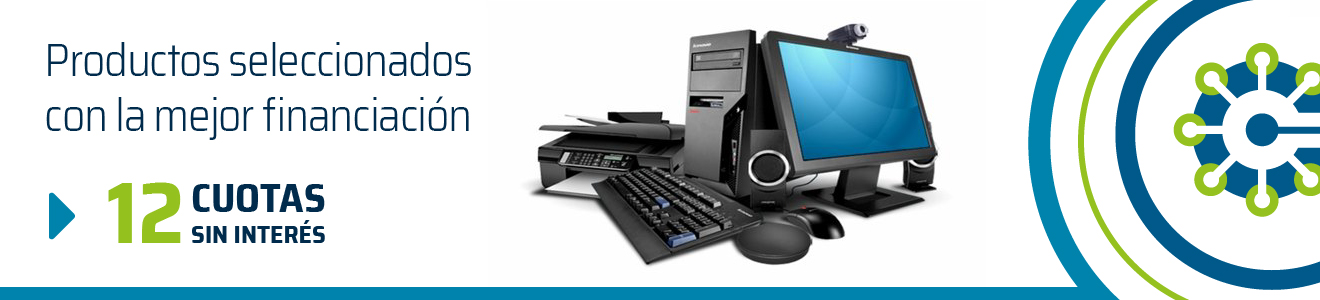
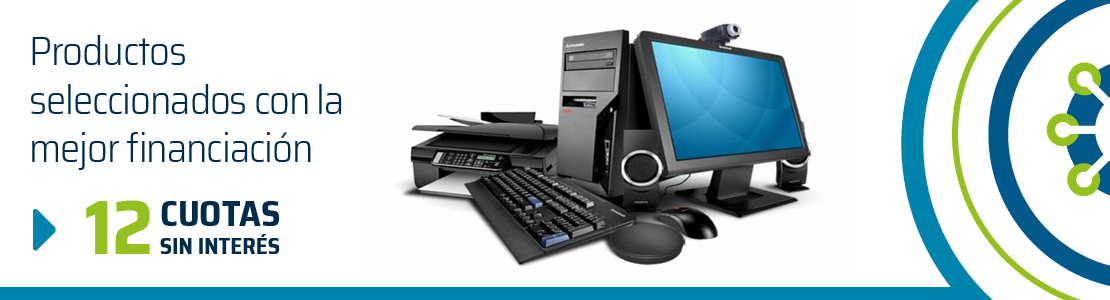
ajustes en producto e inicio

diff --git a/src/components/SeccionProducto.jsx b/src/components/SeccionProducto.jsx
@@ -30,14 +30,14 @@ export default function SeccionProducto() {
         <>
             <NavReactB />
             <div className="container my-5 ">
-                <Card className="p-3 m-auto row flex-row">
+                <div className="p-3 m-auto row flex-row">
 
                     <div className="col-5 pe-0">
                         <Card>
-                            <Card.Body className="">
-                                <Card.Title>
+                            <Card.Body className="fuente">
+                                <div className="titulo-producto-view">
                                     Estación de trabajo HP Z2 Mini G4
-                            </Card.Title>
+                            </div>
                                 <h5 className="grey-text">
                                     <del>$55000.00</del>
                                 </h5>
@@ -215,15 +215,15 @@ export default function SeccionProducto() {
                         </Swiper>
 
                         <div className="border-top">
-                            <h3 className="mt-4">
-                                Más publicaciones de RollingTech
+                            <h3 className="mt-4 titulo-infopro-view">
+                                Información del producto
                         </h3>
                             <div>
 
                             </div>
                         </div>
                     </div>
-                </Card>
+                </div>
             </div>
             <Footer />
         </>

diff --git a/src/components/SlideOfertas.jsx b/src/components/SlideOfertas.jsx
@@ -9,7 +9,7 @@ export default function SlideOfertas() {
     <Carousel fade>
   <Carousel.Item interval={2500}>
     <img
-      className="d-block w-100"
+      className="d-block img-fluid"
       src={slide1}
       alt="First slide"
     />
@@ -19,7 +19,7 @@ export default function SlideOfertas() {
   </Carousel.Item>
   <Carousel.Item interval={2500}>
     <img
-      className="d-block w-100"
+      className="d-block img-fluid"
       src={slide2}
       alt="First slide"
     />

diff --git a/src/components/NavReactB.jsx b/src/components/NavReactB.jsx
@@ -62,6 +62,8 @@ export default function NavReactB() {
       {/* Modal's */}
       <Modal className="modal-favoritos" bsPrefix="modal" size="lg" show={crear} onHide={handleClose}>
         <Modal.Body scrollable>
+          <span>No te quedés con las ganas</span>
+          <p>Los favoritos pueden ser tuyos ya!</p>
             <CardFavoritos />
             <CardFavoritos />
             <CardFavoritos />

diff --git a/src/App.css b/src/App.css
@@ -818,3 +818,20 @@
 
 }
 
+.fuente {
+  font-family: 'Saira Semi Condensed', sans-serif;
+}
+
+.titulo-producto-view {
+  font-weight: 600;
+  font-size: 1.7rem;
+  color: #002b4b;
+  
+}
+
+.titulo-infopro-view {
+  font-weight: 600;
+  font-size: clamp(1.4rem, 5vw, 2rem);
+  color: #585858;
+  font-family: 'Saira Semi Condensed', sans-serif;
+}
